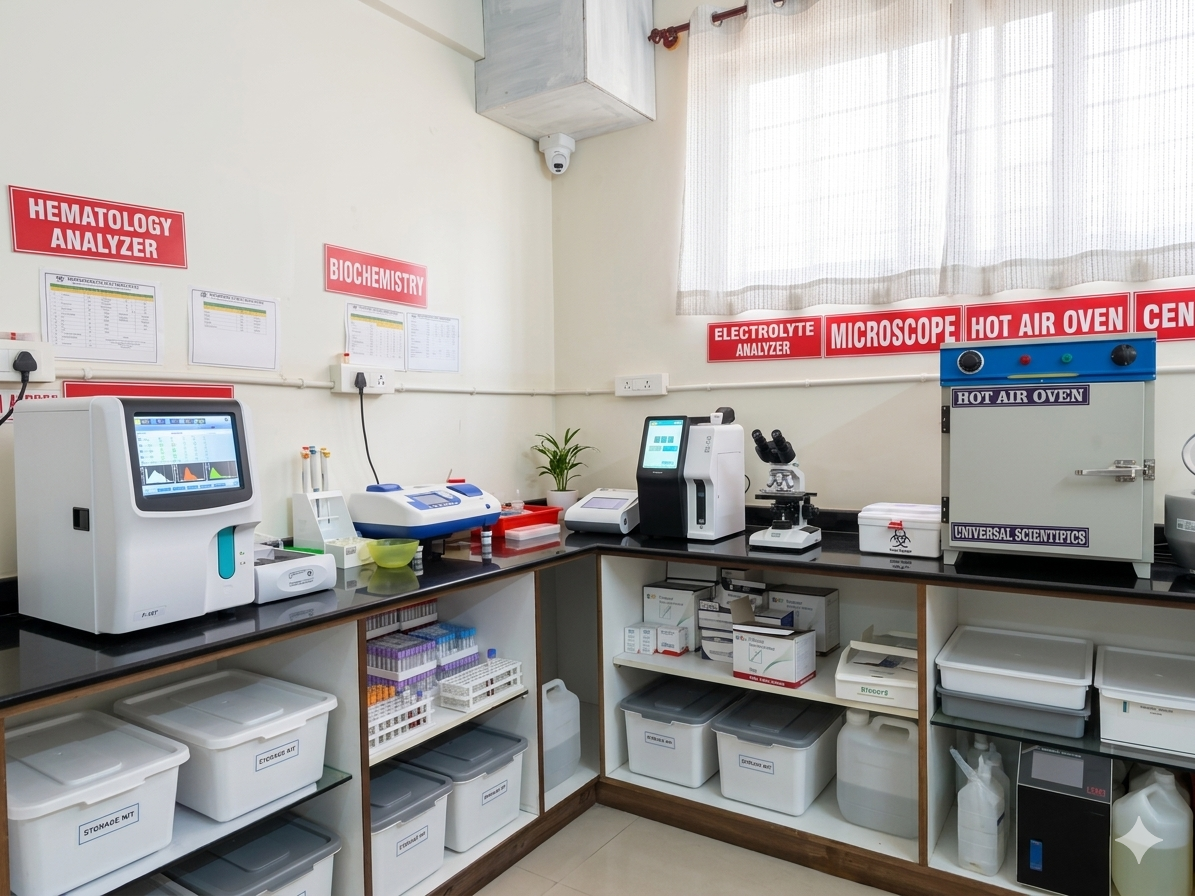
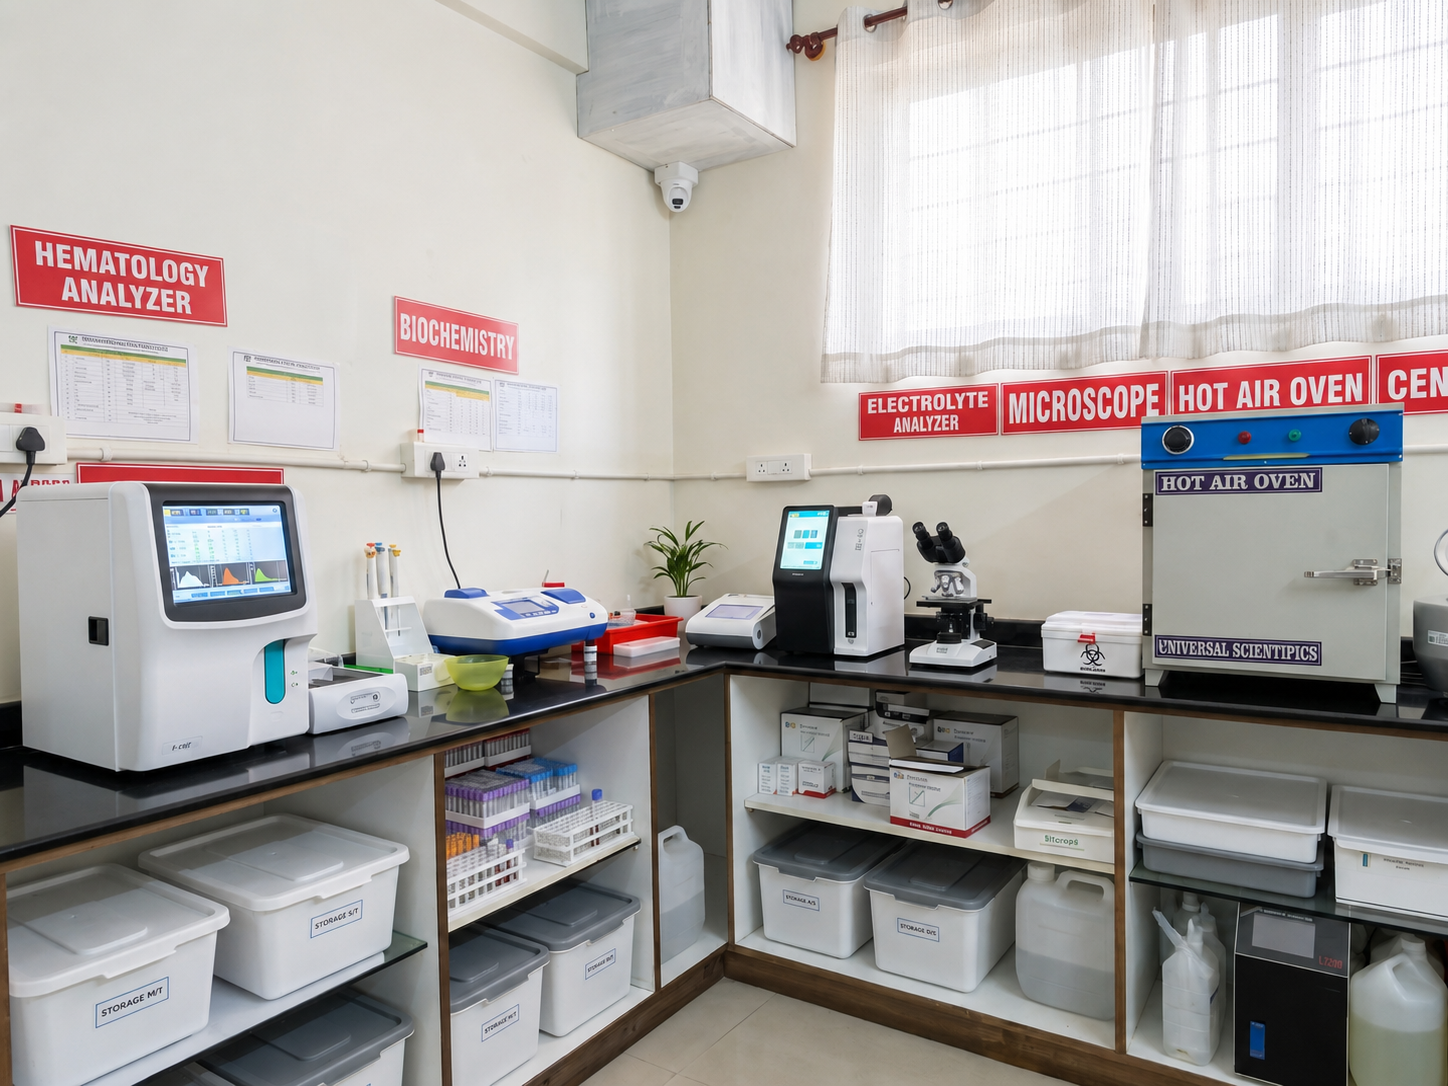
Adjust about section image position and left-align hero text

diff --git a/index.html b/index.html
@@ -100,7 +100,7 @@
                 <div class="grid-2">
                     <div class="about-img-wrap fade-left">
                         <div class="about-img">
-                            <img src="Assets/ICU.webp" alt="Hospital Facility">
+                            <img src="Assets/about.jpg" alt="Hospital Facility">
                         </div>
                     </div>
                     <div class="fade-right">
@@ -123,14 +123,14 @@
                             <div class="stat-item">
                                 <div class="stat-icon"><i data-lucide="users"></i></div>
                                 <div>
-                                    <div class="stat-value">10k+</div>
+                                    <div class="stat-value">12k+</div>
                                     <div class="stat-label">Patients Annually</div>
                                 </div>
                             </div>
                             <div class="stat-item">
                                 <div class="stat-icon"><i data-lucide="heart-pulse"></i></div>
                                 <div>
-                                    <div class="stat-value">10+</div>
+                                    <div class="stat-value">15+</div>
                                     <div class="stat-label">Specialists</div>
                                 </div>
                             </div>
@@ -342,50 +342,50 @@
                     <p class="section-sub fade-up">A glimpse into our world-class infrastructure and care.</p>
                 </div>
                 <div class="gallery-grid" id="galleryGrid">
-                    <div class="gallery-item fade-up"><img src="Assets/Gallery/reception.png" alt="Gallery Image 1">
-                        <div class="gallery-caption">Reception</div>
+                    <div class="gallery-item fade-up"><img src="Assets/Gallery/OP thetre.png" alt="Gallery Image 1">
+                        <div class="gallery-caption">OP Theatre</div>
                     </div>
-                    <div class="gallery-item fade-up"><img src="Assets/Gallery/op theatre.jpg" alt="Gallery Image 2">
-                        <div class="gallery-caption">Operation Theatre</div>
+                    <div class="gallery-item fade-up"><img src="Assets/Gallery/Special ward.png" alt="Gallery Image 2">
+                        <div class="gallery-caption">Special Ward</div>
                     </div>
-                    <div class="gallery-item fade-up"><img src="Assets/Gallery/ct scan.png" alt="Gallery Image 3">
+                    <div class="gallery-item fade-up"><img src="Assets/Gallery/Ct scan.png" alt="Gallery Image 3">
                         <div class="gallery-caption">CT Machine</div>
                     </div>
-                    <div class="gallery-item fade-up mobile-hidden"><img src="Assets/Gallery/1.png"
+                    <div class="gallery-item fade-up mobile-hidden"><img src="Assets/Gallery/emergency.png"
                             alt="Gallery Image 4">
-                        <div class="gallery-caption">X-Ray Machine</div>
+                        <div class="gallery-caption">Emergency</div>
                     </div>
-                    <div class="gallery-item fade-up mobile-hidden"><img src="Assets/Gallery/lab.png"
+                    <div class="gallery-item fade-up mobile-hidden"><img src="Assets/Gallery/Lab.png"
                             alt="Gallery Image 5">
                         <div class="gallery-caption">Laboratory</div>
                     </div>
-                    <div class="gallery-item fade-up mobile-hidden"><img src="Assets/Gallery/ward 2.png"
+                    <div class="gallery-item fade-up mobile-hidden"><img src="Assets/Gallery/1.png"
                             alt="Gallery Image 6">
-                        <div class="gallery-caption">Emergency Room</div>
+                        <div class="gallery-caption"></div>
                     </div>
                     <div class="gallery-item fade-up hidden-gallery-item"><img src="Assets/Gallery/medicals.png"
                             alt="Gallery Image 7">
                         <div class="gallery-caption">Medical Store</div>
                     </div>
-                    <div class="gallery-item fade-up hidden-gallery-item"><img src="Assets/Gallery/7.png"
+                    <div class="gallery-item fade-up hidden-gallery-item"><img src="Assets/Gallery/ICU.png"
                             alt="Gallery Image 8">
-                        <div class="gallery-caption">X Ray Machine</div>
+                        <div class="gallery-caption">ICU</div>
                     </div>
-                    <div class="gallery-item fade-up hidden-gallery-item"><img src="Assets/Gallery/8.png"
+                    <div class="gallery-item fade-up hidden-gallery-item"><img src="Assets/Gallery/Waiting area 2.png"
                             alt="Gallery Image 9">
-                        <div class="gallery-caption">Gallery Image 9</div>
+                        <div class="gallery-caption">Waiting Area</div>
                     </div>
-                    <div class="gallery-item fade-up hidden-gallery-item"><img src="Assets/Gallery/6.png"
+                    <div class="gallery-item fade-up hidden-gallery-item"><img src="Assets/Gallery/waiting area.png"
                             alt="Gallery Image 9">
-                        <div class="gallery-caption">Gallery Image 9</div>
+                        <div class="gallery-caption">Waiting Area</div>
                     </div>
-                    <div class="gallery-item fade-up hidden-gallery-item"><img src="Assets/Gallery/5.png"
+                    <div class="gallery-item fade-up hidden-gallery-item"><img src="Assets/Gallery/lobby.png"
                             alt="Gallery Image 9">
-                        <div class="gallery-caption">Gallery Image 9</div>
+                        <div class="gallery-caption">Lobby</div>
                     </div>
-                    <div class="gallery-item fade-up hidden-gallery-item"><img src="Assets/Gallery/ward.png"
+                    <div class="gallery-item fade-up hidden-gallery-item"><img src="Assets/Gallery/reception.png"
                             alt="Gallery Image 9">
-                        <div class="gallery-caption">Gallery Image 9</div>
+                        <div class="gallery-caption">Reception</div>
                     </div>
                 </div>
                 <div class="text-center" style="margin-top: 3rem;">
@@ -421,7 +421,7 @@
                             <div class="contact-icon"><i data-lucide="mail"></i></div>
                             <div>
                                 <h3 class="contact-label">Email</h3>
-                                <p class="contact-val">manjunathahospital@gmail.com</p>
+                                <p class="contact-val">care@manjunathahospital.com</p>
                             </div>
                         </div>
                         <div class="contact-item">

diff --git a/styles.css b/styles.css
@@ -429,7 +429,8 @@ button {
 .hero-content {
     position: relative;
     z-index: 1;
-    max-width: 700px
+    max-width: 700px;
+    text-align: left;
 }
 
 .hero-badge {
@@ -587,7 +588,8 @@ button {
 .about-img img {
     width: 100%;
     height: 100%;
-    object-fit: cover
+    object-fit: cover;
+    object-position: 95% 50%;
 }
 
 .about-blob1 {
